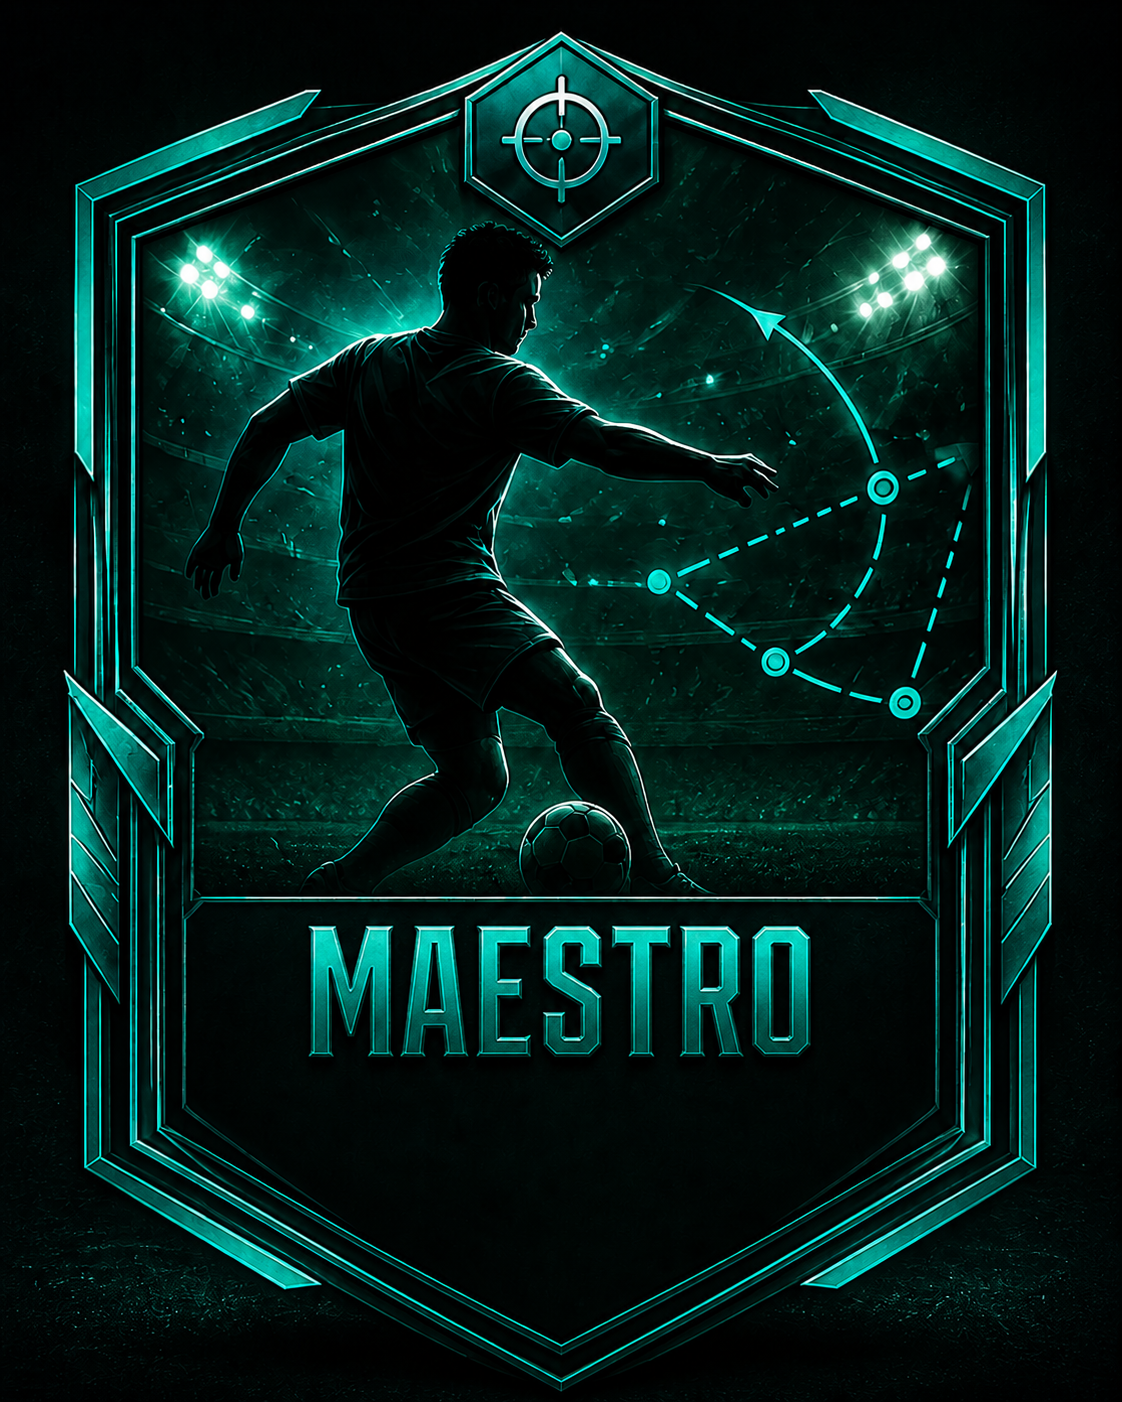
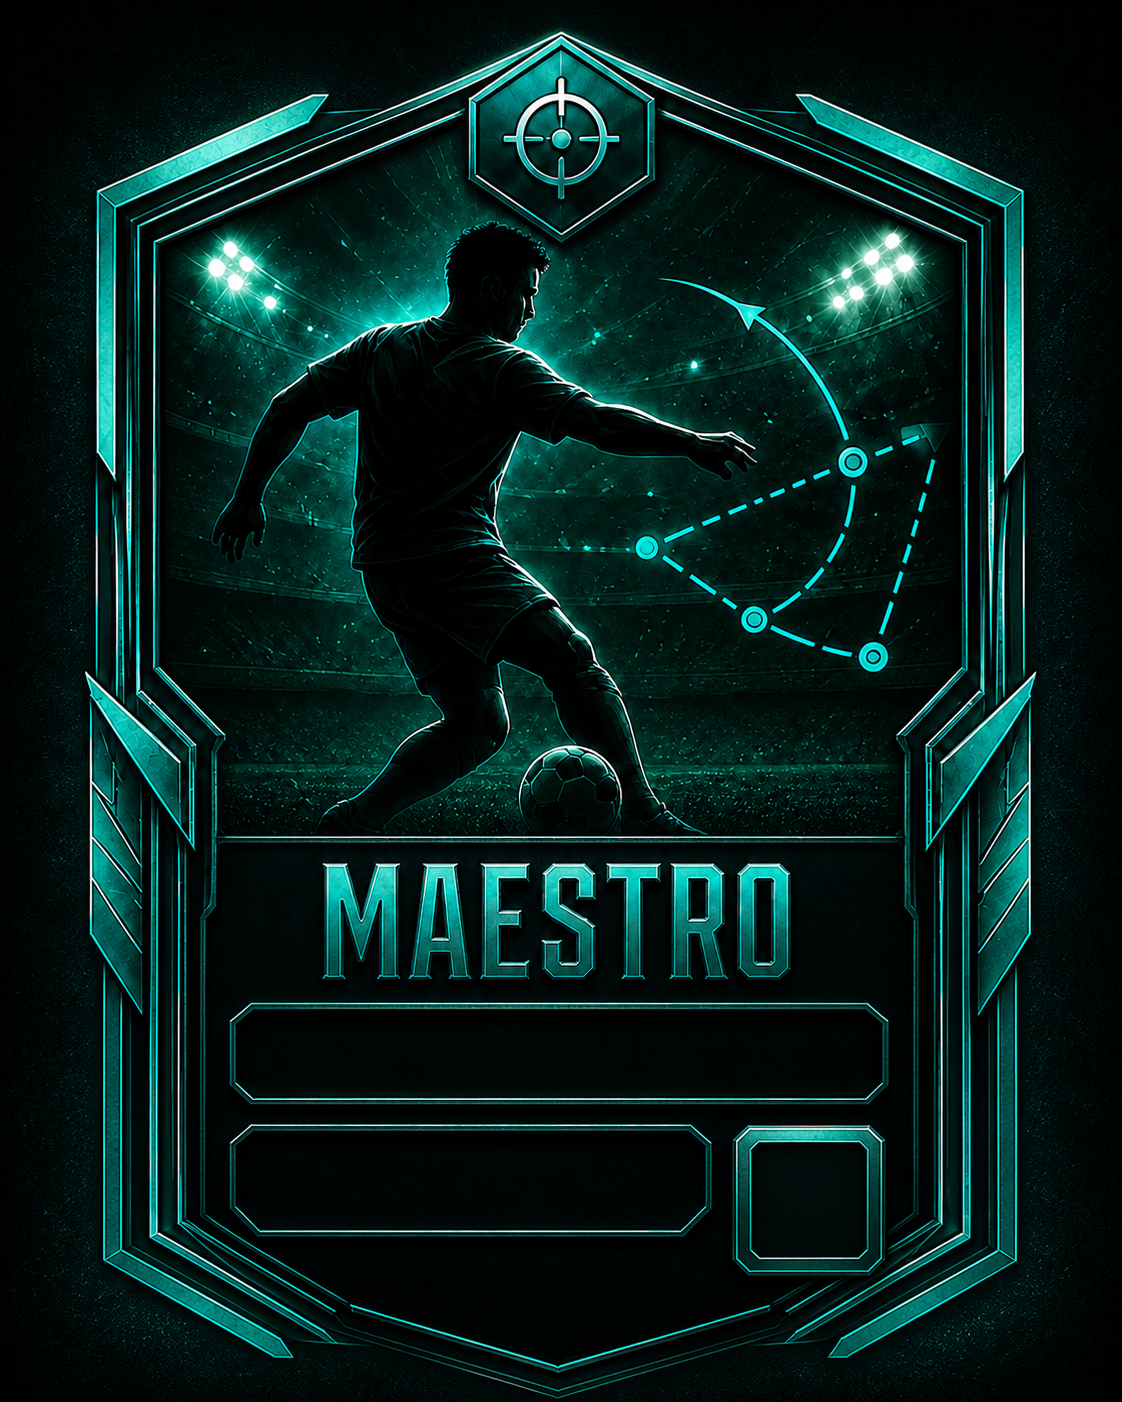
Align award layouts with themed QR slots

diff --git a/components/admin/award-card-studio.tsx b/components/admin/award-card-studio.tsx
@@ -5,17 +5,7 @@ import { Download, ExternalLink, QrCode } from "lucide-react"
 import QRCode from "qrcode"
 import "@fontsource/bebas-neue"
 import { Button } from "@/components/ui/button"
-
-const AWARDS = {
-  artilheiro: { title: "ARTILHEIRO", value: "12 GOLS", image: "/images/awards/artilheiro-template.png", color: "#ffbd35" },
-  garcom: { title: "GARÇOM", value: "9 ASSISTÊNCIAS", image: "/images/awards/garcom-template.png", color: "#38bdf8" },
-  craque: { title: "CRAQUE DO CAMPEONATO", value: "NOTA 9,2", image: "/images/awards/craque-template.png", color: "#f4c542" },
-  maestro: { title: "MAESTRO", value: "184 PASSES CERTOS", image: "/images/awards/maestro-template.png", color: "#2dd4bf" },
-  xerife: { title: "XERIFE", value: "31 DESARMES", image: "/images/awards/xerife-template.png", color: "#e2e8f0" },
-  muralha: { title: "MURALHA", value: "27 DEFESAS", image: "/images/awards/muralha-template.png", color: "#ef4444" },
-} as const
-
-type AwardKey = keyof typeof AWARDS
+import { AWARD_CARD_CONFIG as AWARDS, type AwardCardKey as AwardKey } from "@/lib/award-card-config"
 
 function fitText(ctx: CanvasRenderingContext2D, text: string, maxWidth: number, initialSize: number) {
   let size = initialSize
@@ -36,8 +26,8 @@ export function AwardCardStudio() {
   useEffect(() => { setTournamentUrl(`${window.location.origin}/dashboard/tournaments/exemplo`) }, [])
   useEffect(() => {
     if (!tournamentUrl.trim()) return setQrPreview("")
-    void QRCode.toDataURL(tournamentUrl.trim(), { margin: 1, width: 256, color: { dark: "#050505", light: "#ffffff" } }).then(setQrPreview)
-  }, [tournamentUrl])
+    void QRCode.toDataURL(tournamentUrl.trim(), { margin: 1, width: 256, color: { dark: "#050505", light: award.qrLight } }).then(setQrPreview)
+  }, [award.qrLight, tournamentUrl])
 
   function changeCategory(next: AwardKey) {
     setCategory(next)
@@ -55,7 +45,6 @@ export function AwardCardStudio() {
     const ctx = canvas.getContext("2d")
     if (!ctx) return
     ctx.drawImage(background, 0, 0)
-    const center = canvas.width / 2
     const nick = (name.trim() || "Jogador").slice(0, 28)
     const achievement = (value.trim() || "0").toUpperCase().slice(0, 34)
     ctx.textAlign = "center"
@@ -66,20 +55,20 @@ export function AwardCardStudio() {
     ctx.strokeStyle = "rgba(0,0,0,.85)"
     ctx.lineWidth = canvas.width * 0.006
     ctx.fillStyle = "#fff"
-    fitText(ctx, nick, canvas.width * 0.58, canvas.width * 0.076)
-    ctx.strokeText(nick, center, canvas.height * 0.758)
-    ctx.fillText(nick, center, canvas.height * 0.758)
+    fitText(ctx, nick, canvas.width * award.textWidth, canvas.width * 0.068)
+    ctx.strokeText(nick, canvas.width * award.nickX, canvas.height * award.nickY)
+    ctx.fillText(nick, canvas.width * award.nickX, canvas.height * award.nickY)
     ctx.fillStyle = award.color
-    fitText(ctx, achievement, canvas.width * 0.56, canvas.width * 0.049)
-    ctx.strokeText(achievement, center, canvas.height * 0.826)
-    ctx.fillText(achievement, center, canvas.height * 0.826)
+    fitText(ctx, achievement, canvas.width * award.textWidth, canvas.width * 0.046)
+    ctx.strokeText(achievement, canvas.width * award.statX, canvas.height * award.statY)
+    ctx.fillText(achievement, canvas.width * award.statX, canvas.height * award.statY)
     if (tournamentUrl.trim()) {
       const qr = new Image()
-      qr.src = await QRCode.toDataURL(tournamentUrl.trim(), { margin: 1, width: 320, color: { dark: "#050505", light: "#fff" } })
+      qr.src = await QRCode.toDataURL(tournamentUrl.trim(), { margin: 1, width: 320, color: { dark: "#050505", light: award.qrLight } })
       await qr.decode()
-      const size = canvas.width * 0.105
-      const x = canvas.width * 0.79
-      const y = canvas.height * 0.835
+      const size = canvas.width * award.qrSize
+      const x = canvas.width * award.qrX
+      const y = canvas.height * award.qrY
       ctx.shadowBlur = 0
       ctx.fillStyle = award.color
       ctx.fillRect(x - 5, y - 5, size + 10, size + 10)
@@ -112,11 +101,9 @@ export function AwardCardStudio() {
         <div className="mb-2 flex items-center justify-between"><span className="text-[10px] font-black uppercase tracking-[0.16em] text-gray-500">Prévia real</span><span className="flex items-center gap-1 text-[10px] text-gray-600"><ExternalLink className="h-3 w-3" />4:5</span></div>
         <div className="relative mx-auto aspect-[4/5] w-full max-w-[440px] overflow-hidden rounded-2xl bg-black shadow-2xl ring-1 ring-white/10">
           <img src={award.image} alt={`Template ${award.title}`} className="absolute inset-0 h-full w-full object-cover" />
-          <div className="absolute inset-x-[20%] top-[72.8%] text-center [font-family:'Bebas_Neue',Impact,sans-serif] drop-shadow-[0_3px_3px_rgba(0,0,0,1)]">
-            <p className="truncate text-[clamp(28px,5vw,42px)] leading-none text-white [-webkit-text-stroke:1px_rgba(0,0,0,.7)]">{name || "Jogador"}</p>
-            <p className="mt-[8%] truncate text-[clamp(18px,3.2vw,27px)] leading-none [-webkit-text-stroke:1px_rgba(0,0,0,.7)]" style={{ color: award.color }}>{value || "0"}</p>
-          </div>
-          {qrPreview && <span className="absolute bottom-[6.2%] right-[10.5%] block h-[10.5%] w-[10.5%] p-[2px]" style={{ backgroundColor: award.color }}><img src={qrPreview} alt="QR Code do campeonato" className="h-full w-full" /></span>}
+          <p className="absolute w-[52%] -translate-x-1/2 -translate-y-1/2 truncate text-center text-[clamp(26px,4.5vw,39px)] leading-none text-white [font-family:'Bebas_Neue',Impact,sans-serif] [-webkit-text-stroke:1px_rgba(0,0,0,.7)] drop-shadow-[0_3px_3px_rgba(0,0,0,1)]" style={{ left: `${award.nickX * 100}%`, top: `${award.nickY * 100}%` }}>{name || "Jogador"}</p>
+          <p className="absolute w-[52%] -translate-x-1/2 -translate-y-1/2 truncate text-center text-[clamp(17px,3vw,25px)] leading-none [font-family:'Bebas_Neue',Impact,sans-serif] [-webkit-text-stroke:1px_rgba(0,0,0,.7)] drop-shadow-[0_3px_3px_rgba(0,0,0,1)]" style={{ color: award.color, left: `${award.statX * 100}%`, top: `${award.statY * 100}%` }}>{value || "0"}</p>
+          {qrPreview && <span className="absolute block p-[2px]" style={{ backgroundColor: award.color, left: `${award.qrX * 100}%`, top: `${award.qrY * 100}%`, width: `${award.qrSize * 100}%`, height: `${award.qrSize * 80}%` }}><img src={qrPreview} alt="QR Code do campeonato" className="h-full w-full" /></span>}
         </div>
       </div>
     </div>

diff --git a/app/dashboard/tournaments/[id]/ea-stats-view.tsx b/app/dashboard/tournaments/[id]/ea-stats-view.tsx
@@ -8,6 +8,7 @@ import { Card } from "@/components/ui/card"
 import { EmptyState, TeamCrest } from "@/components/competitions/shared"
 import { getTournamentEaStats } from "@/lib/services/tournaments"
 import type { TournamentEaPlayerStats } from "@/lib/services/tournaments.types"
+import { awardCardByTitle } from "@/lib/award-card-config"
 
 const TAGS: Record<string, string> = {
   MVP: "MVP",
@@ -19,15 +20,7 @@ const TAGS: Record<string, string> = {
 }
 
 async function downloadAwardPng(title: string, subtitle: string, player: TournamentEaPlayerStats, value: string, tournamentId: string) {
-  const templates: Record<string, { image: string; color: string }> = {
-    Artilheiro: { image: "/images/awards/artilheiro-template.png", color: "#ffbd35" },
-    "Garçom": { image: "/images/awards/garcom-template.png", color: "#38bdf8" },
-    "Craque do Campeonato": { image: "/images/awards/craque-template.png", color: "#f4c542" },
-    Maestro: { image: "/images/awards/maestro-template.png", color: "#2dd4bf" },
-    Xerife: { image: "/images/awards/xerife-template.png", color: "#e2e8f0" },
-    Muralha: { image: "/images/awards/muralha-template.png", color: "#ef4444" },
-  }
-  const template = templates[title]
+  const template = awardCardByTitle(title)
   if (template) {
     await document.fonts.load('400 100px "Bebas Neue"')
     const background = new Image()
@@ -39,7 +32,6 @@ async function downloadAwardPng(title: string, subtitle: string, player: Tournam
     const outputContext = output.getContext("2d")
     if (!outputContext) return
     outputContext.drawImage(background, 0, 0)
-    const center = output.width / 2
     const fit = (text: string, maxWidth: number, initialSize: number) => {
       let size = initialSize
       do { outputContext.font = `400 ${size}px "Bebas Neue", Impact, sans-serif`; size -= 2 } while (size > 30 && outputContext.measureText(text).width > maxWidth)
@@ -52,19 +44,19 @@ async function downloadAwardPng(title: string, subtitle: string, player: Tournam
     outputContext.strokeStyle = "rgba(0,0,0,.85)"
     outputContext.lineWidth = output.width * 0.006
     outputContext.fillStyle = "#fff"
-    fit(player.playerName, output.width * 0.58, output.width * 0.076)
-    outputContext.strokeText(player.playerName, center, output.height * 0.758)
-    outputContext.fillText(player.playerName, center, output.height * 0.758)
+    fit(player.playerName, output.width * template.textWidth, output.width * 0.068)
+    outputContext.strokeText(player.playerName, output.width * template.nickX, output.height * template.nickY)
+    outputContext.fillText(player.playerName, output.width * template.nickX, output.height * template.nickY)
     outputContext.fillStyle = template.color
-    fit(value.toUpperCase(), output.width * 0.56, output.width * 0.049)
-    outputContext.strokeText(value.toUpperCase(), center, output.height * 0.826)
-    outputContext.fillText(value.toUpperCase(), center, output.height * 0.826)
+    fit(value.toUpperCase(), output.width * template.textWidth, output.width * 0.046)
+    outputContext.strokeText(value.toUpperCase(), output.width * template.statX, output.height * template.statY)
+    outputContext.fillText(value.toUpperCase(), output.width * template.statX, output.height * template.statY)
     const qr = new Image()
-    qr.src = await QRCode.toDataURL(`${window.location.origin}/dashboard/tournaments/${tournamentId}`, { margin: 1, width: 320, color: { dark: "#050505", light: "#ffffff" } })
+    qr.src = await QRCode.toDataURL(`${window.location.origin}/dashboard/tournaments/${tournamentId}`, { margin: 1, width: 320, color: { dark: "#050505", light: template.qrLight } })
     await qr.decode()
-    const qrSize = output.width * 0.105
-    const qrX = output.width * 0.79
-    const qrY = output.height * 0.835
+    const qrSize = output.width * template.qrSize
+    const qrX = output.width * template.qrX
+    const qrY = output.height * template.qrY
     outputContext.shadowBlur = 0
     outputContext.fillStyle = template.color
     outputContext.fillRect(qrX - 5, qrY - 5, qrSize + 10, qrSize + 10)

diff --git a/lib/award-card-config.ts b/lib/award-card-config.ts
@@ -1,0 +1,15 @@
+export const AWARD_CARD_CONFIG = {
+  artilheiro: { title: "ARTILHEIRO", value: "12 GOLS", image: "/images/awards/artilheiro-template.png", color: "#ffbd35", qrLight: "#ffe09a", nickX: 0.5, nickY: 0.72, statX: 0.42, statY: 0.81, qrX: 0.665, qrY: 0.78, qrSize: 0.13, textWidth: 0.43 },
+  garcom: { title: "GARÇOM", value: "9 ASSISTÊNCIAS", image: "/images/awards/garcom-template.png", color: "#38bdf8", qrLight: "#a9e4ff", nickX: 0.43, nickY: 0.735, statX: 0.43, statY: 0.795, qrX: 0.67, qrY: 0.705, qrSize: 0.125, textWidth: 0.41 },
+  craque: { title: "CRAQUE DO CAMPEONATO", value: "NOTA 9,2", image: "/images/awards/craque-template.png", color: "#f4c542", qrLight: "#f3dd91", nickX: 0.43, nickY: 0.715, statX: 0.43, statY: 0.795, qrX: 0.665, qrY: 0.69, qrSize: 0.14, textWidth: 0.42 },
+  maestro: { title: "MAESTRO", value: "184 PASSES CERTOS", image: "/images/awards/maestro-template.png", color: "#2dd4bf", qrLight: "#a2f3e8", nickX: 0.5, nickY: 0.755, statX: 0.42, statY: 0.845, qrX: 0.67, qrY: 0.81, qrSize: 0.125, textWidth: 0.42 },
+  xerife: { title: "XERIFE", value: "31 DESARMES", image: "/images/awards/xerife-template.png", color: "#e2e8f0", qrLight: "#dce3ea", nickX: 0.5, nickY: 0.705, statX: 0.42, statY: 0.80, qrX: 0.69, qrY: 0.74, qrSize: 0.12, textWidth: 0.48 },
+  muralha: { title: "MURALHA", value: "27 DEFESAS", image: "/images/awards/muralha-template.png", color: "#ef4444", qrLight: "#ffaaaa", nickX: 0.42, nickY: 0.715, statX: 0.42, statY: 0.79, qrX: 0.66, qrY: 0.70, qrSize: 0.14, textWidth: 0.43 },
+} as const
+
+export type AwardCardKey = keyof typeof AWARD_CARD_CONFIG
+export type AwardCardConfig = (typeof AWARD_CARD_CONFIG)[AwardCardKey]
+
+export function awardCardByTitle(title: string): AwardCardConfig | undefined {
+  return Object.values(AWARD_CARD_CONFIG).find((award) => award.title.localeCompare(title, "pt-BR", { sensitivity: "base" }) === 0)
+}
